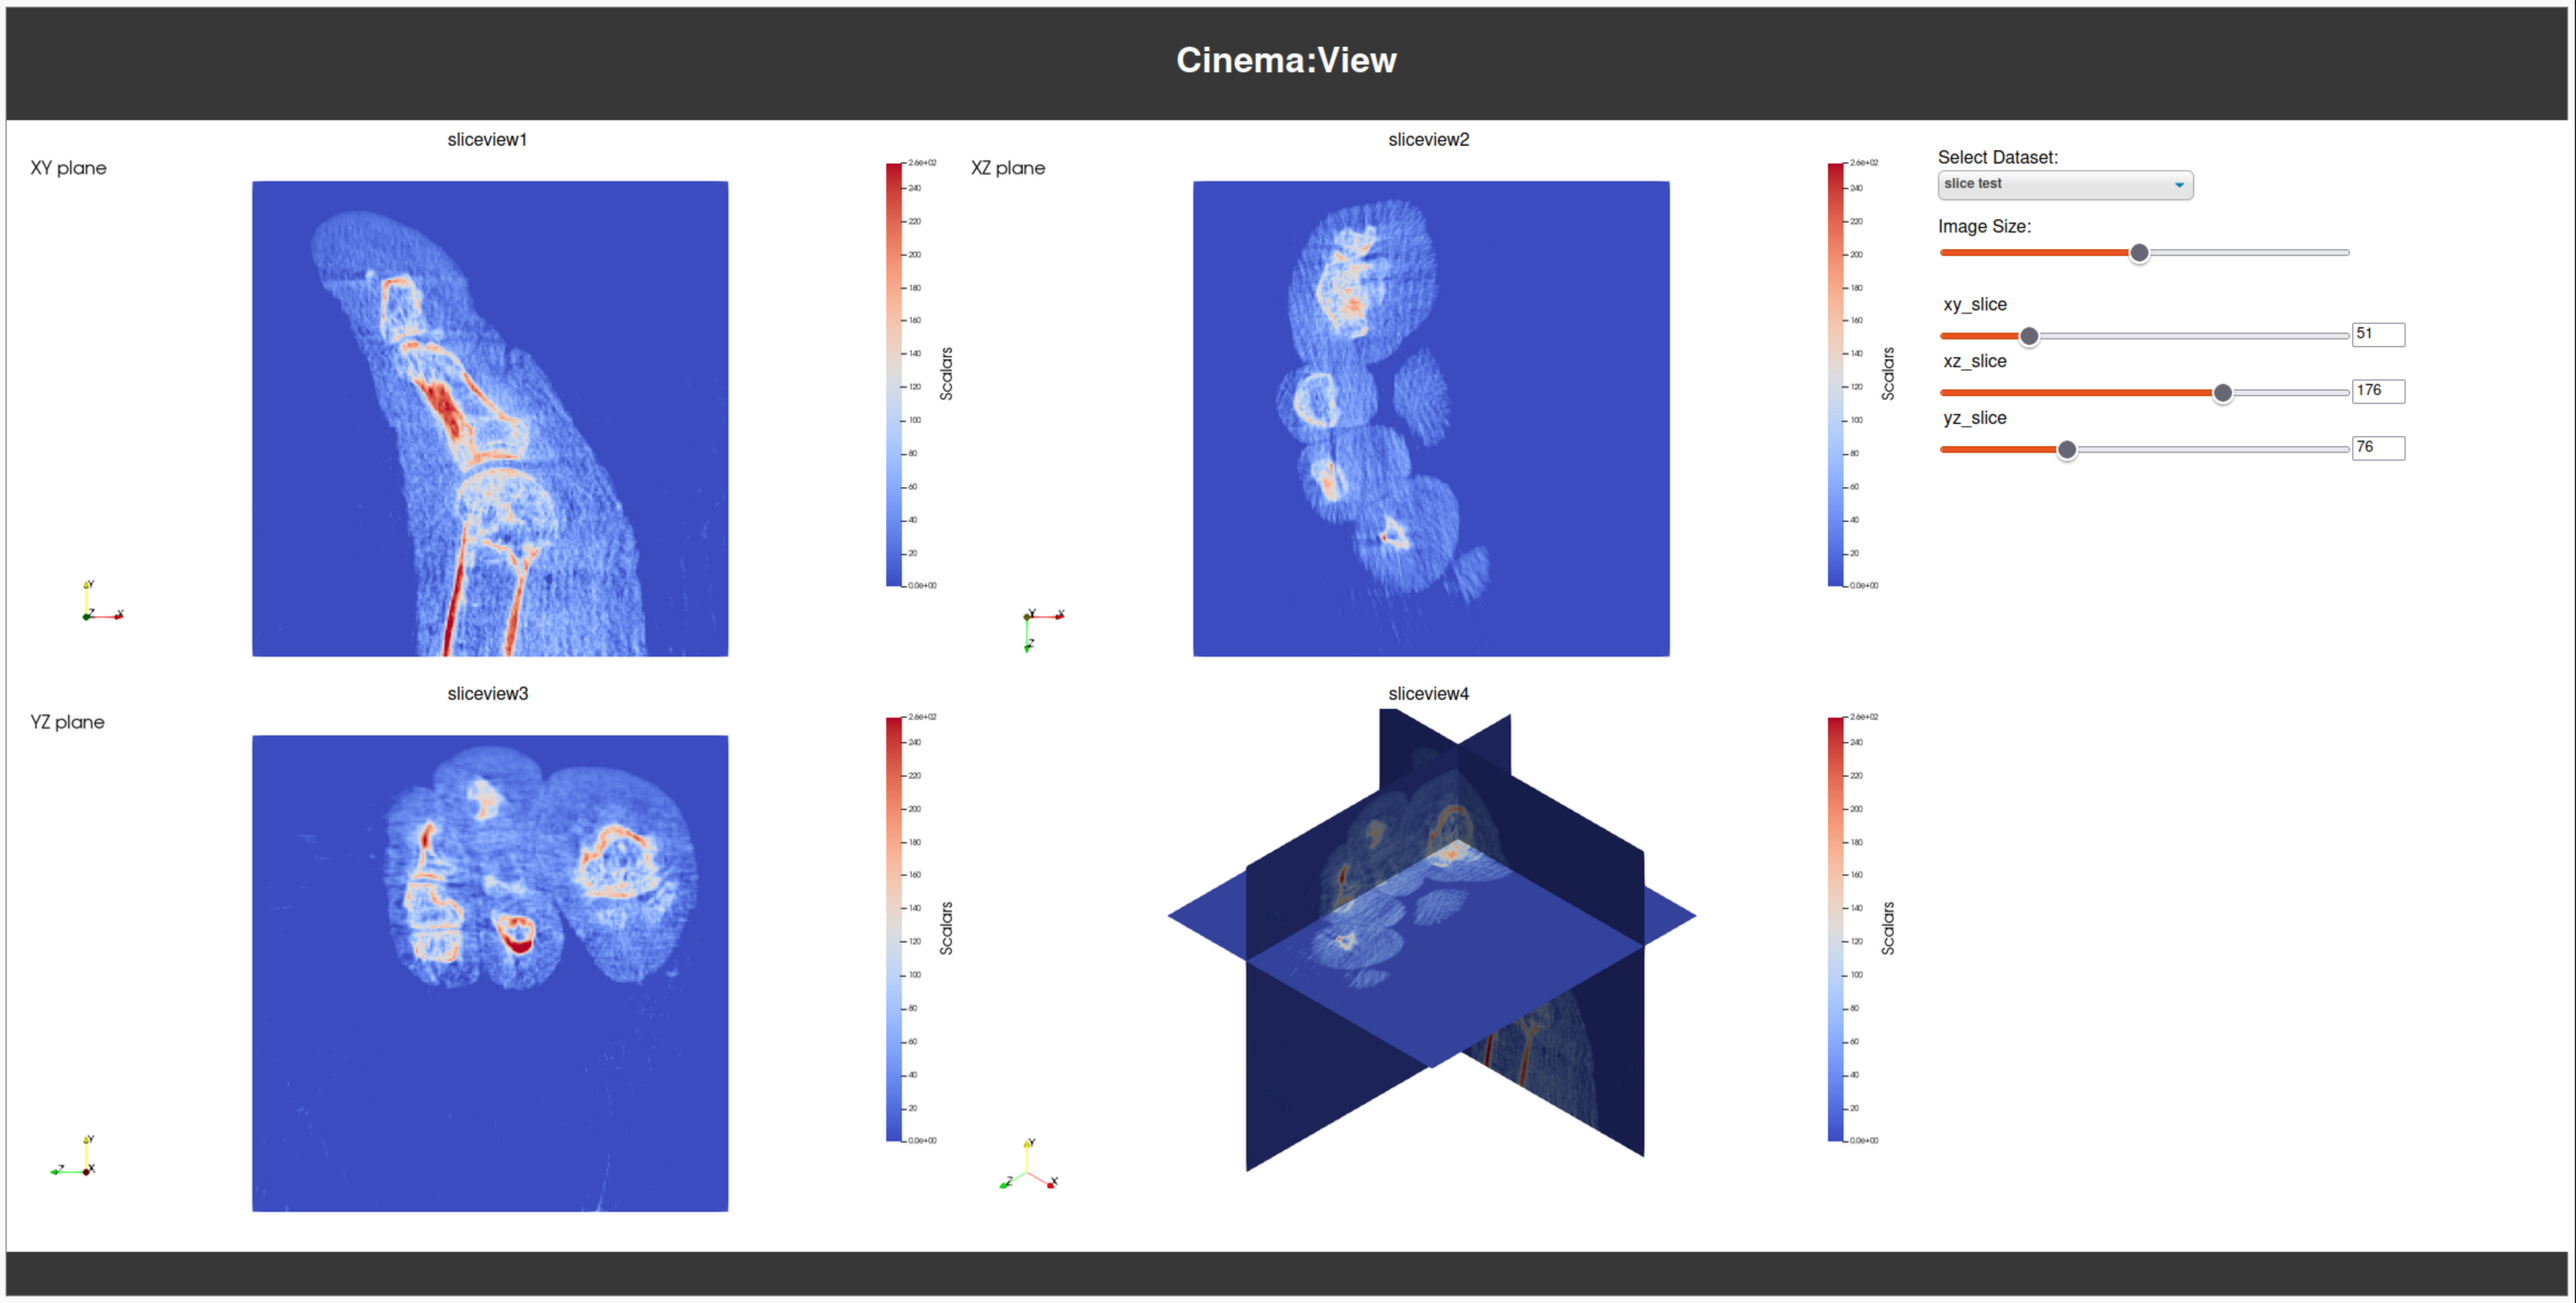
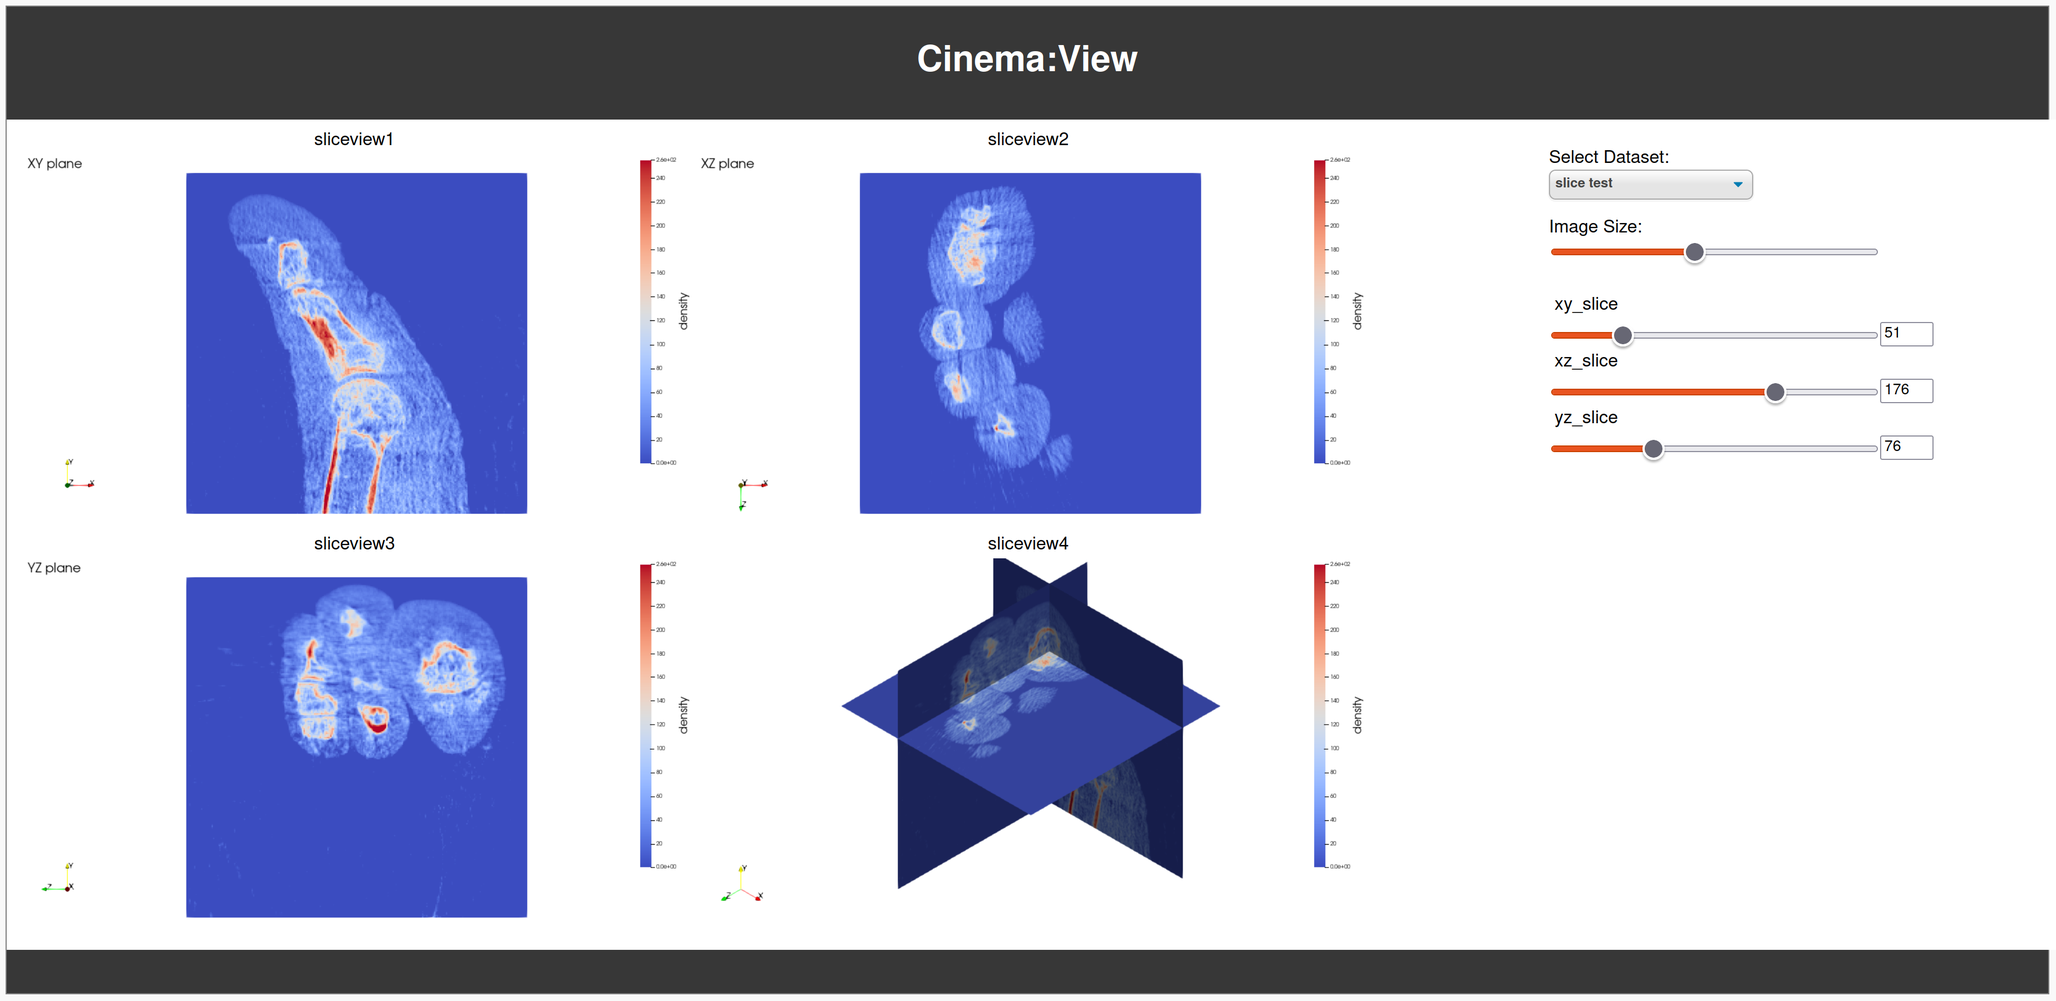
Change scalar name to density and update images for multiple slice example

diff --git a/database/multiple_slices/resources/multiple_slice_trace.py b/database/multiple_slices/resources/multiple_slice_trace.py
@@ -32,7 +32,7 @@ colorBarLabelFontSize = 8
 colorBarThickness = 16
 colorBarPosition = [0.9, 0.3]
 colorBarLength = 0.8
-colorBarTitle = "Scalars"
+colorBarTitle = "density"
 
 # create a new 'Text'
 text1 = pvs.Text(registrationName='Text1')
